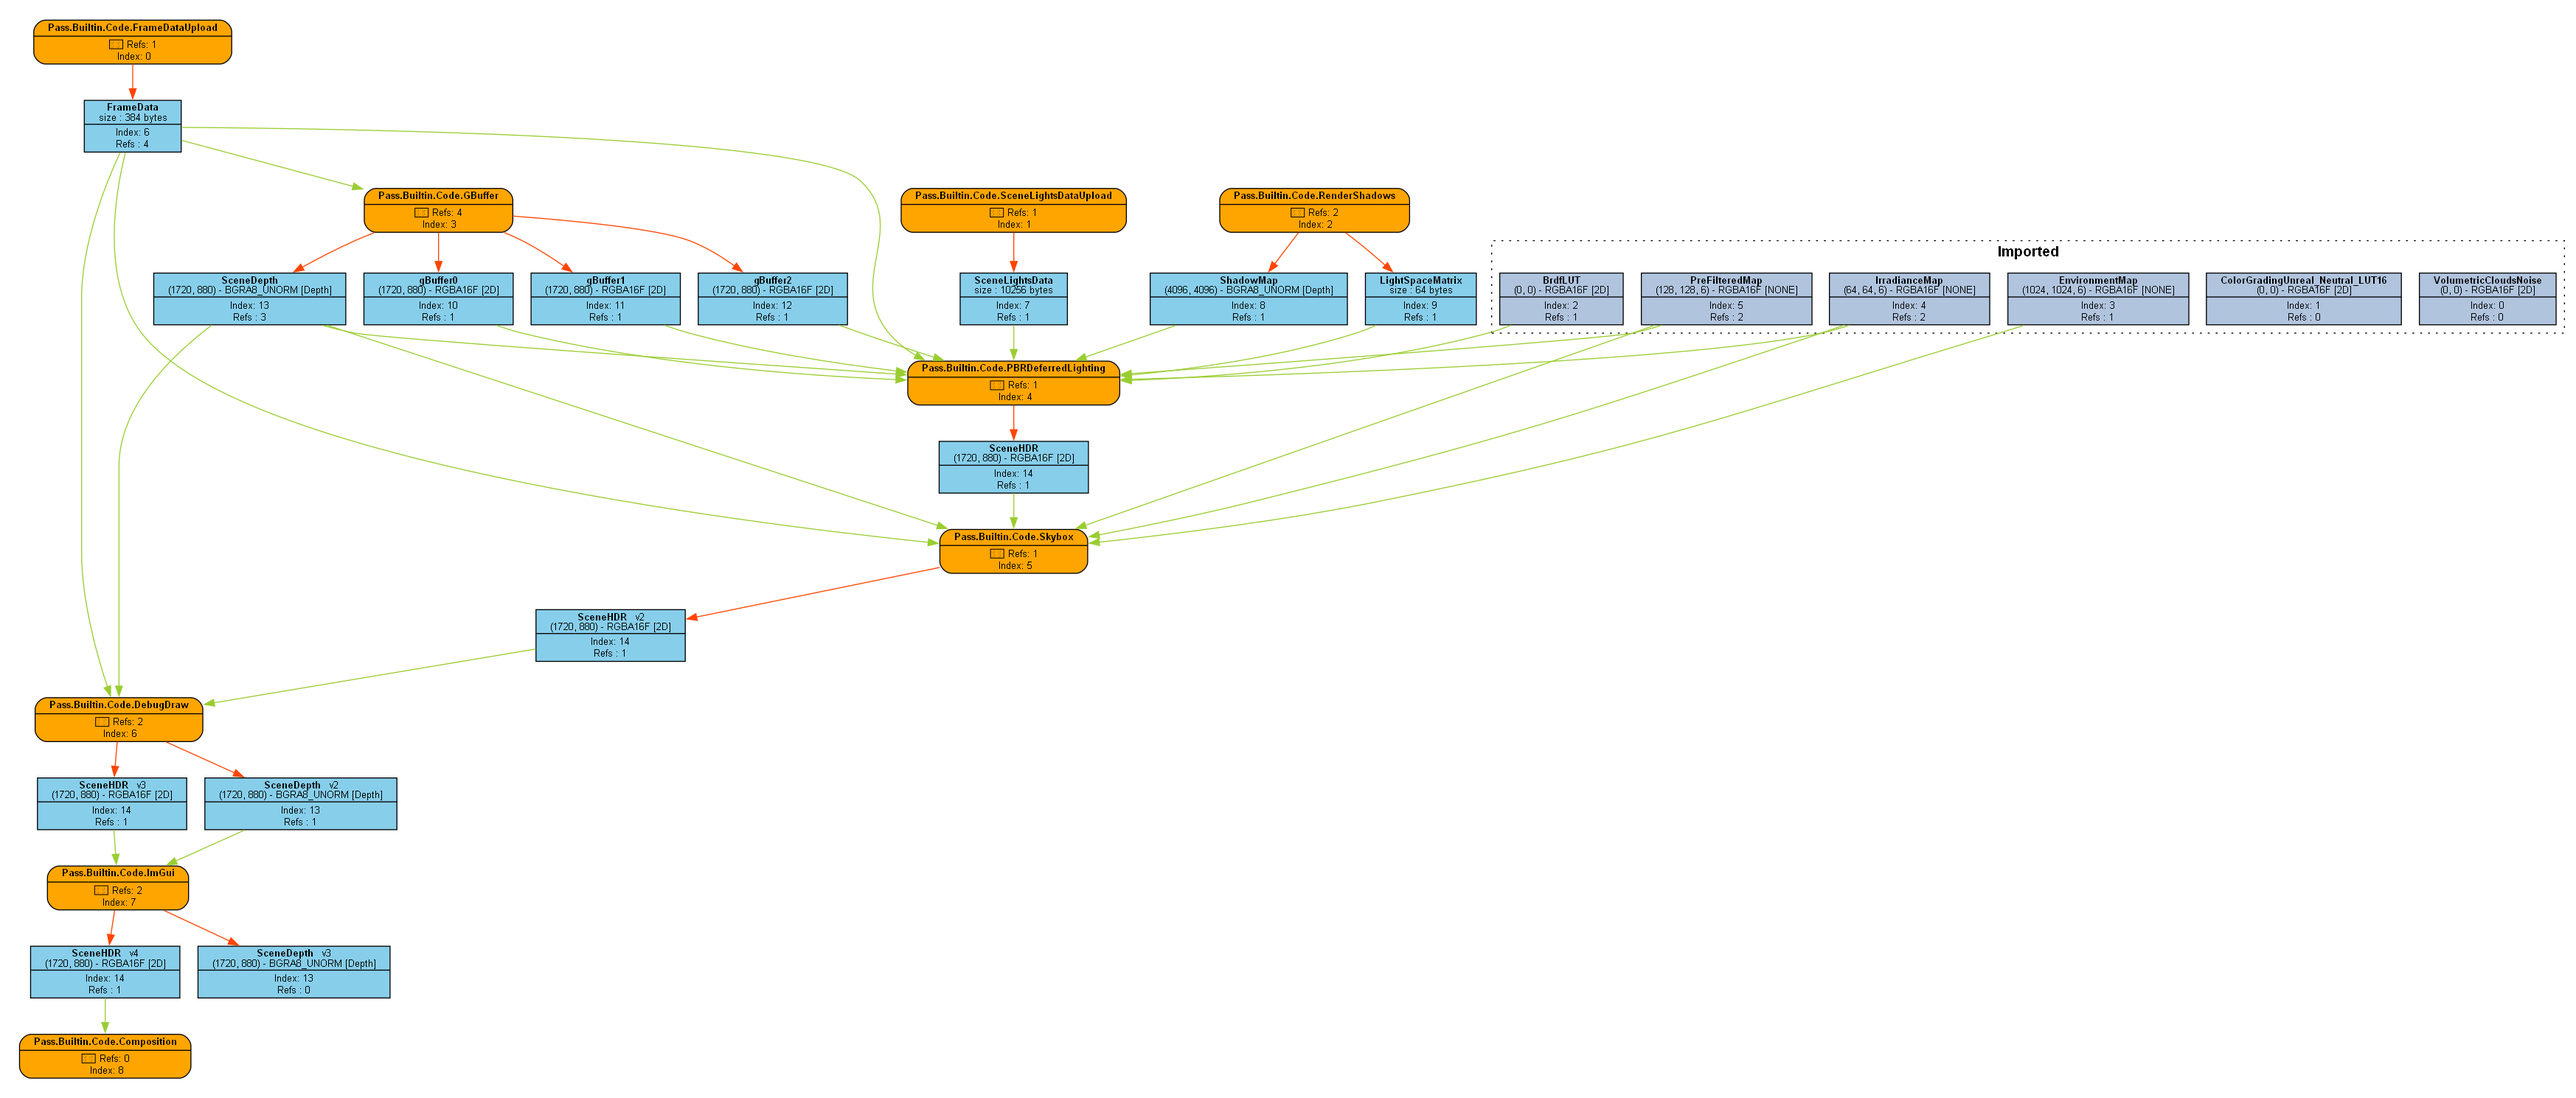
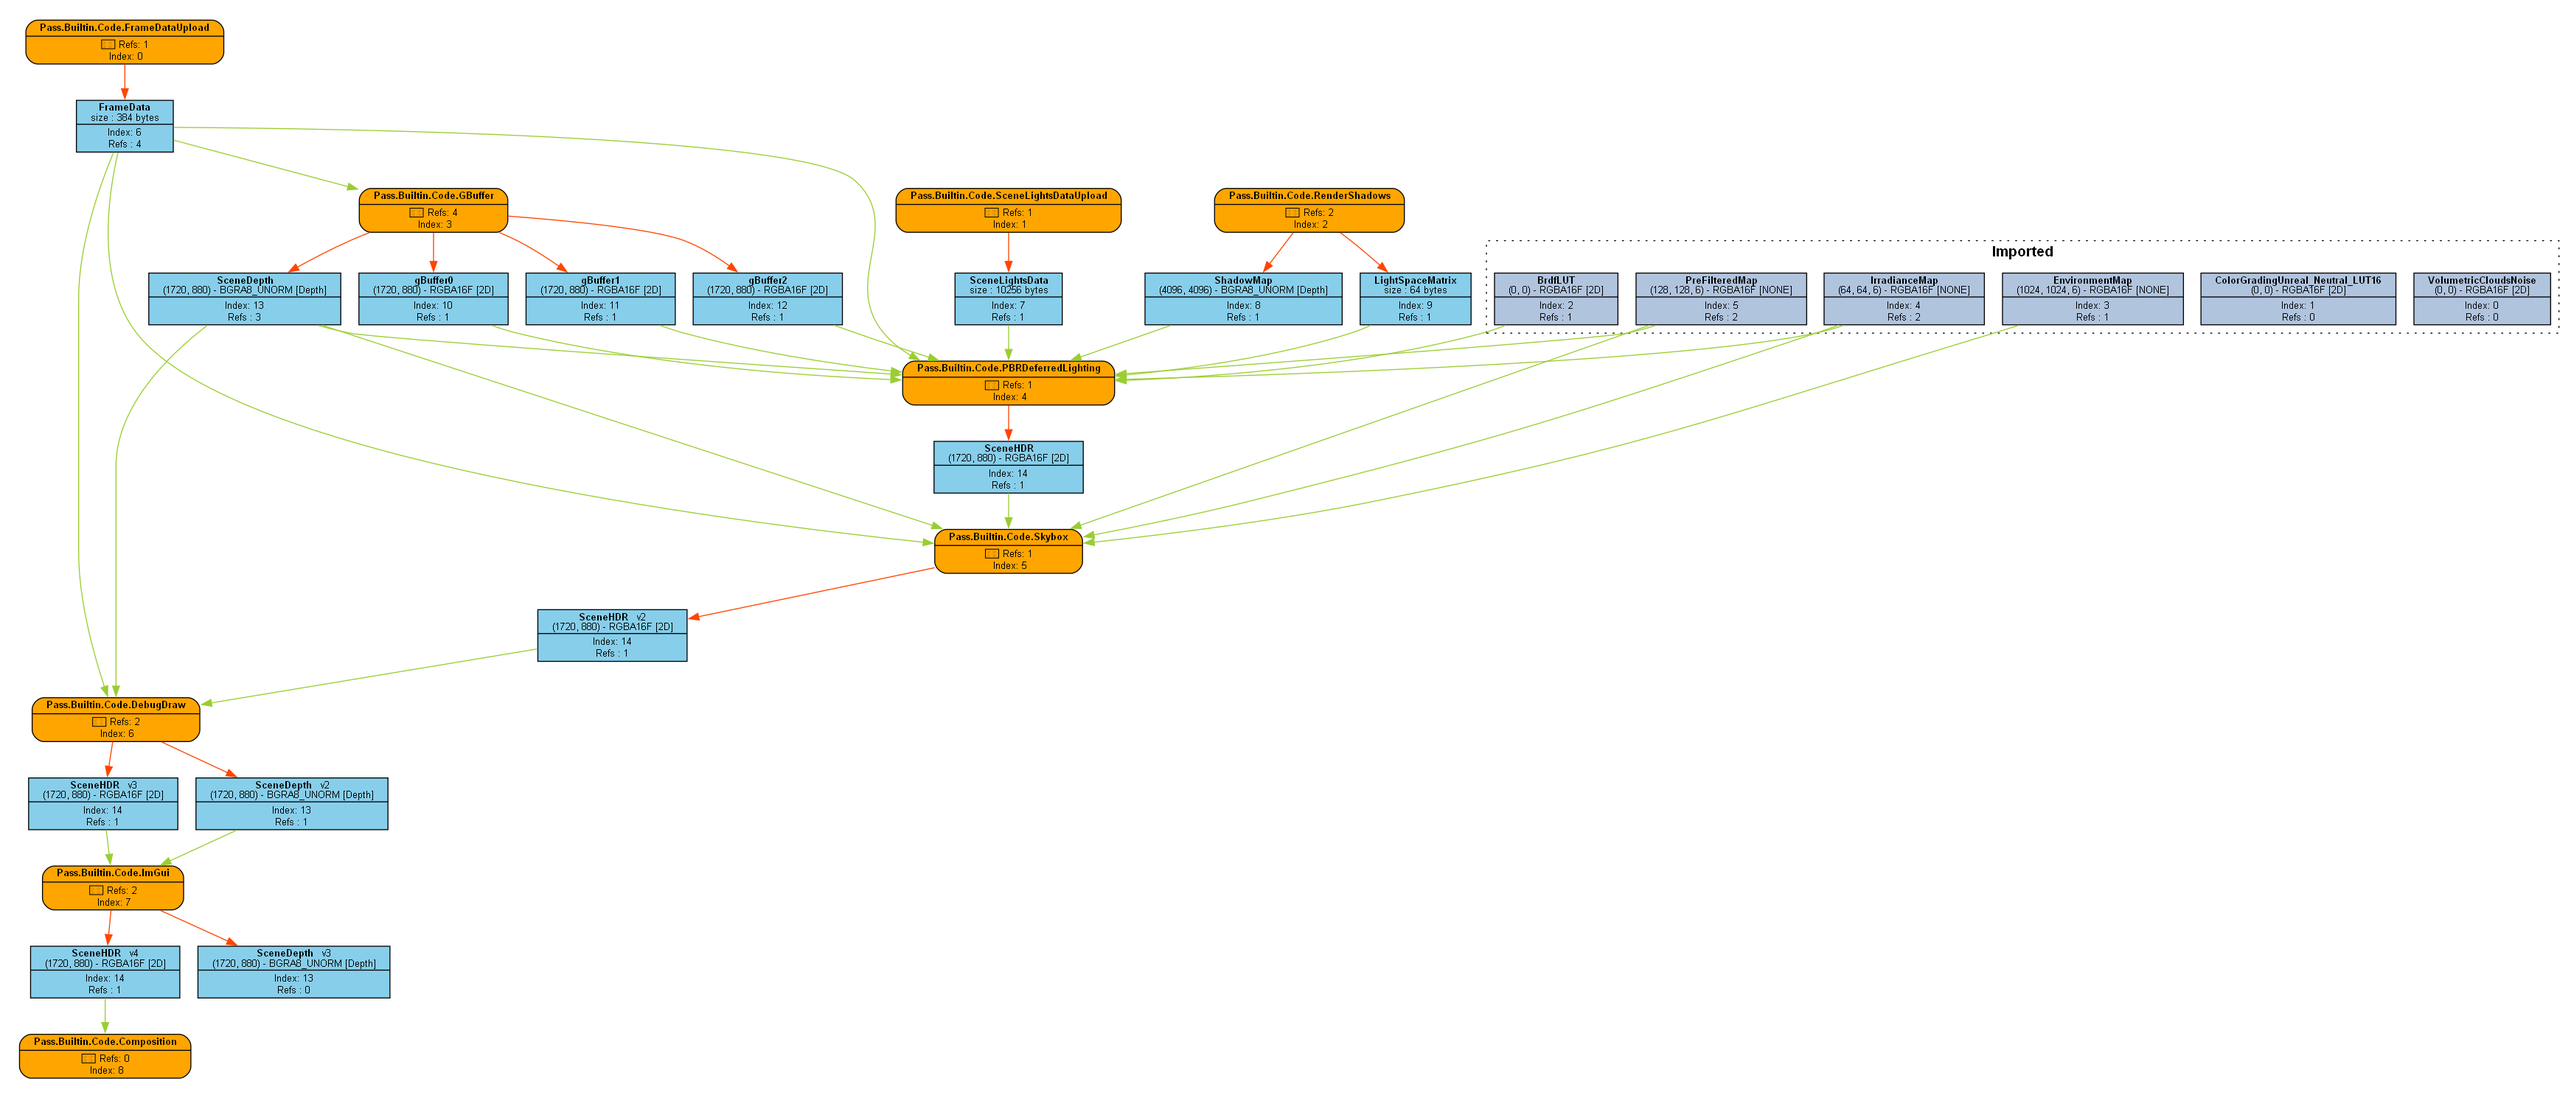
[Tool][FGVisTool] 12/n Tesitng dangling writeonly fr design, ref count is 0 fo for some write nly resources in certain passes but it's more conceptually right

diff --git a/Engine/src/Razix/Tools/Runtime/RZEngineRuntimetools.cpp b/Engine/src/Razix/Tools/Runtime/RZEngineRuntimetools.cpp
@@ -98,7 +98,7 @@ namespace Razix {
             bool     isWrite;
         };
 
-        void DrawLifetimeCell(const ImVec2& pos, float width, float height, u32 mode)
+        void DrawLifetimeCell(const ImVec2& pos, float width, float height, Gfx::RZResourceLifetime lifetime)
         {
             ImDrawList* drawList = ImGui::GetWindowDrawList();
             ImVec2      min      = pos;
@@ -107,15 +107,15 @@ namespace Razix {
             ImVec2 mouse   = ImGui::GetMousePos();
             bool   hovered = mouse.x >= min.x && mouse.x <= max.x && mouse.y >= min.y && mouse.y <= max.y;
 
-            ImU32 fillColor   = mode == 0 ? BarrierStyle::ReadFillColor : BarrierStyle::WriteFillColor;
-            ImU32 borderColor = mode == 0 ? BarrierStyle::ReadBorderColor : BarrierStyle::WriteBorderColor;
+            ImU32 fillColor   = lifetime.Mode == Gfx::LifeTimeMode::kRead ? BarrierStyle::ReadFillColor : BarrierStyle::WriteFillColor;
+            ImU32 borderColor = lifetime.Mode == Gfx::LifeTimeMode::kRead ? BarrierStyle::ReadBorderColor : BarrierStyle::WriteBorderColor;
 
             // Fill and border
             drawList->AddRectFilled(min, max, fillColor, LifetimeCellStyle::Roundness);
             drawList->AddRect(min, max, borderColor, LifetimeCellStyle::Roundness, 0, LifetimeCellStyle::BorderThickness);
 
             // Center the text
-            const char* label    = (mode == 0) ? "Read" : "Write";
+            const char* label    = lifetime.Mode == Gfx::LifeTimeMode::kRead ? "Read" : "Write";
             ImVec2      textSize = ImGui::CalcTextSize(label);
             ImVec2      textPos  = ImVec2(
                 min.x + (width - textSize.x) * 0.5f,
@@ -125,12 +125,14 @@ namespace Razix {
             // Tooltip
             if (hovered) {
                 ImGui::BeginTooltip();
-                ImGui::Text("Mode : %s", label);
+                ImGui::Text("StartPassID : %u", lifetime.StartPassID);
+                ImGui::Text("EndPassID   : %u", lifetime.EndPassID);
+                ImGui::Text("EntryID     : %u", lifetime.ResourceEntryID);
                 ImGui::EndTooltip();
             }
         }
 
-        void DrawLifetimeCellFromPassRange(const ImVec2& origin, uint32_t startPassIdx, uint32_t numPasses, float rowY, u32 mode)
+        void DrawLifetimeCellFromPassRange(const ImVec2& origin, uint32_t startPassIdx, uint32_t numPasses, float rowY, Gfx::RZResourceLifetime lifetime)
         {
             float xOffset = FrameGraphStyle::LabelPanelSpace +
                             FrameGraphStyle::LabelColumnOffsetX * 2 +
@@ -142,7 +144,7 @@ namespace Razix {
             float cellWidth = (LifetimeCellStyle::CellWidth * numPasses) +
                               ((PassLabelStyle::Spacing * 2) * (numPasses - 1));
 
-            DrawLifetimeCell(cellOrigin, cellWidth, LifetimeCellStyle::CellHeight, mode);
+            DrawLifetimeCell(cellOrigin, cellWidth, LifetimeCellStyle::CellHeight, lifetime);
         }
 
         void DrawSimulatedBarriers(ImDrawList* draw, ImVec2 origin, float cellWidth, float cellHeight, const std::vector<SimulatedBarrier>& barriers)
@@ -261,7 +263,7 @@ namespace Razix {
                     const auto&                 lifetimes = resEntry.getLifetimes();
 
                     for (auto& lifetime: lifetimes) {
-                        DrawLifetimeCellFromPassRange(origin, lifetime.StartPassID, lifetime.EndPassID - lifetime.StartPassID + 1, (ry + 2) * FrameGraphStyle::CellSize, (u32) lifetime.Mode);
+                        DrawLifetimeCellFromPassRange(origin, lifetime.StartPassID, lifetime.EndPassID - lifetime.StartPassID + 1, (ry + 2) * FrameGraphStyle::CellSize, lifetime);
                     }
 
                     ImVec2 mouse = ImGui::GetMousePos();

diff --git a/Engine/src/Razix/Gfx/FrameGraph/RZFrameGraph.cpp b/Engine/src/Razix/Gfx/FrameGraph/RZFrameGraph.cpp
@@ -594,15 +594,16 @@ namespace Razix {
 
             // Cache compiled resource + pass indices
             for (u32 resID = 0; resID < m_ResourceNodes.size(); ++resID) {
-                if (m_ResourceNodes[resID].m_RefCount > 0) {
-                    m_CompiledResourceIndices.push_back(resID);
+                // Dirty tricks to fix life times
+                //if (m_ResourceNodes[resID].m_RefCount > 0) {
+                m_CompiledResourceIndices.push_back(resID);
 
-                    // Cache compiled resource nodes entries uniquely
-                    const RZResourceEntry &entry   = getResourceEntry(resID);
-                    u32                    version = m_ResourceNodes[resID].m_Version;
-                    if (version == 1)
-                        m_CompiledResourceEntries.push_back(entry.m_ID);
-                }
+                // Cache compiled resource nodes entries uniquely
+                const RZResourceEntry &entry   = getResourceEntry(resID);
+                u32                    version = m_ResourceNodes[resID].m_Version;
+                if (version == 1)
+                    m_CompiledResourceEntries.push_back(entry.m_ID);
+                //}
             }
 
             struct Interval
@@ -1051,7 +1052,7 @@ namespace Razix {
                  * which serve no runtime purpose. Instead, we skip the read registration
                  * and directly clone + write:
                  */
-                m_PassNode.registerResourceForRead(id, flags);
+                //m_PassNode.registerResourceForRead(id, flags);
                 // we're writing to the same existing external resource so clone it before writing to it
                 writeID = m_PassNode.registerResourceForWrite(m_FrameGraph.cloneResource(id), flags);
             }

diff --git a/Engine/src/Razix/Platform/API/Vulkan/VKUtilities.cpp b/Engine/src/Razix/Platform/API/Vulkan/VKUtilities.cpp
@@ -308,10 +308,8 @@ namespace Razix {
             {
                 RAZIX_PROFILE_FUNCTIONC(RZ_PROFILE_COLOR_GRAPHICS);
 
-                if (newLayout == oldLayout) {
-                    RAZIX_CORE_WARN("[Vulkan] SKIPPING...Image Layout Transition... found same old and new layout! Please check your barriers again or ignore this.");
+                if (newLayout == oldLayout)
                     return;
-                }
 
                 // Begin the buffer since this done for computability with shader pipeline stages we use pipeline barrier to synchronize the transition
                 VkCommandBuffer commandBuffer = VKUtilities::BeginSingleTimeCommandBuffer("Image Layout Transition", float4(0.25f, 0.5f, 0.75, 1.0f));
